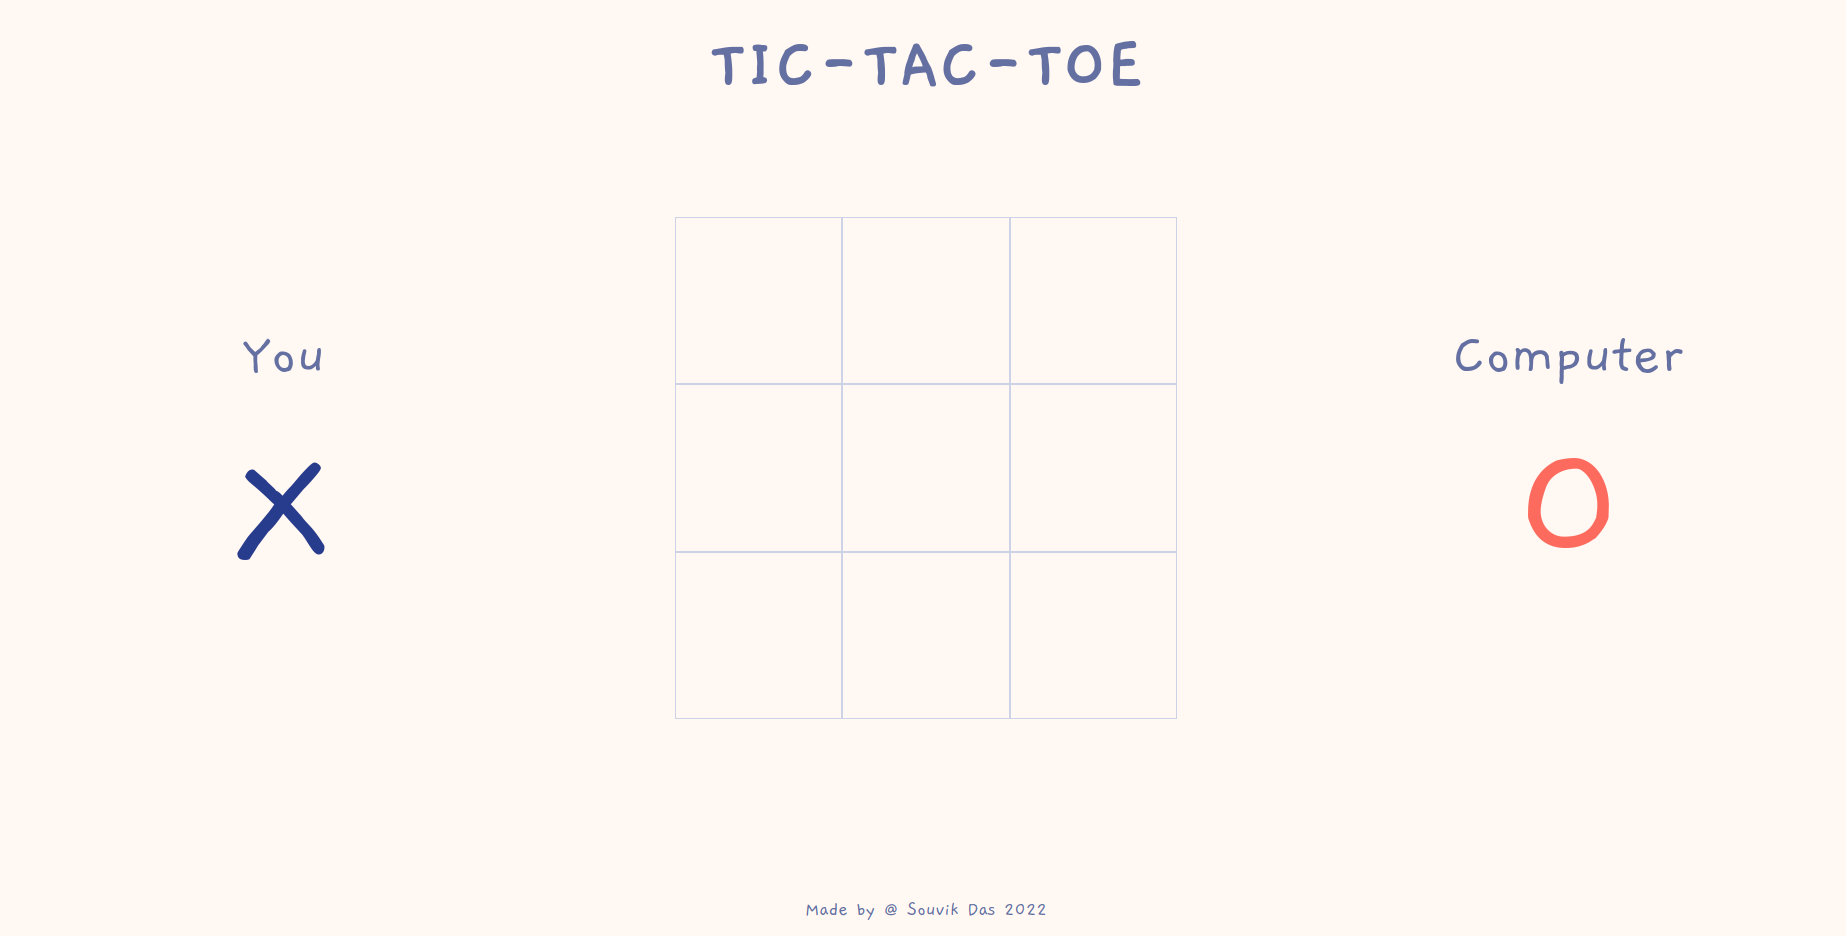
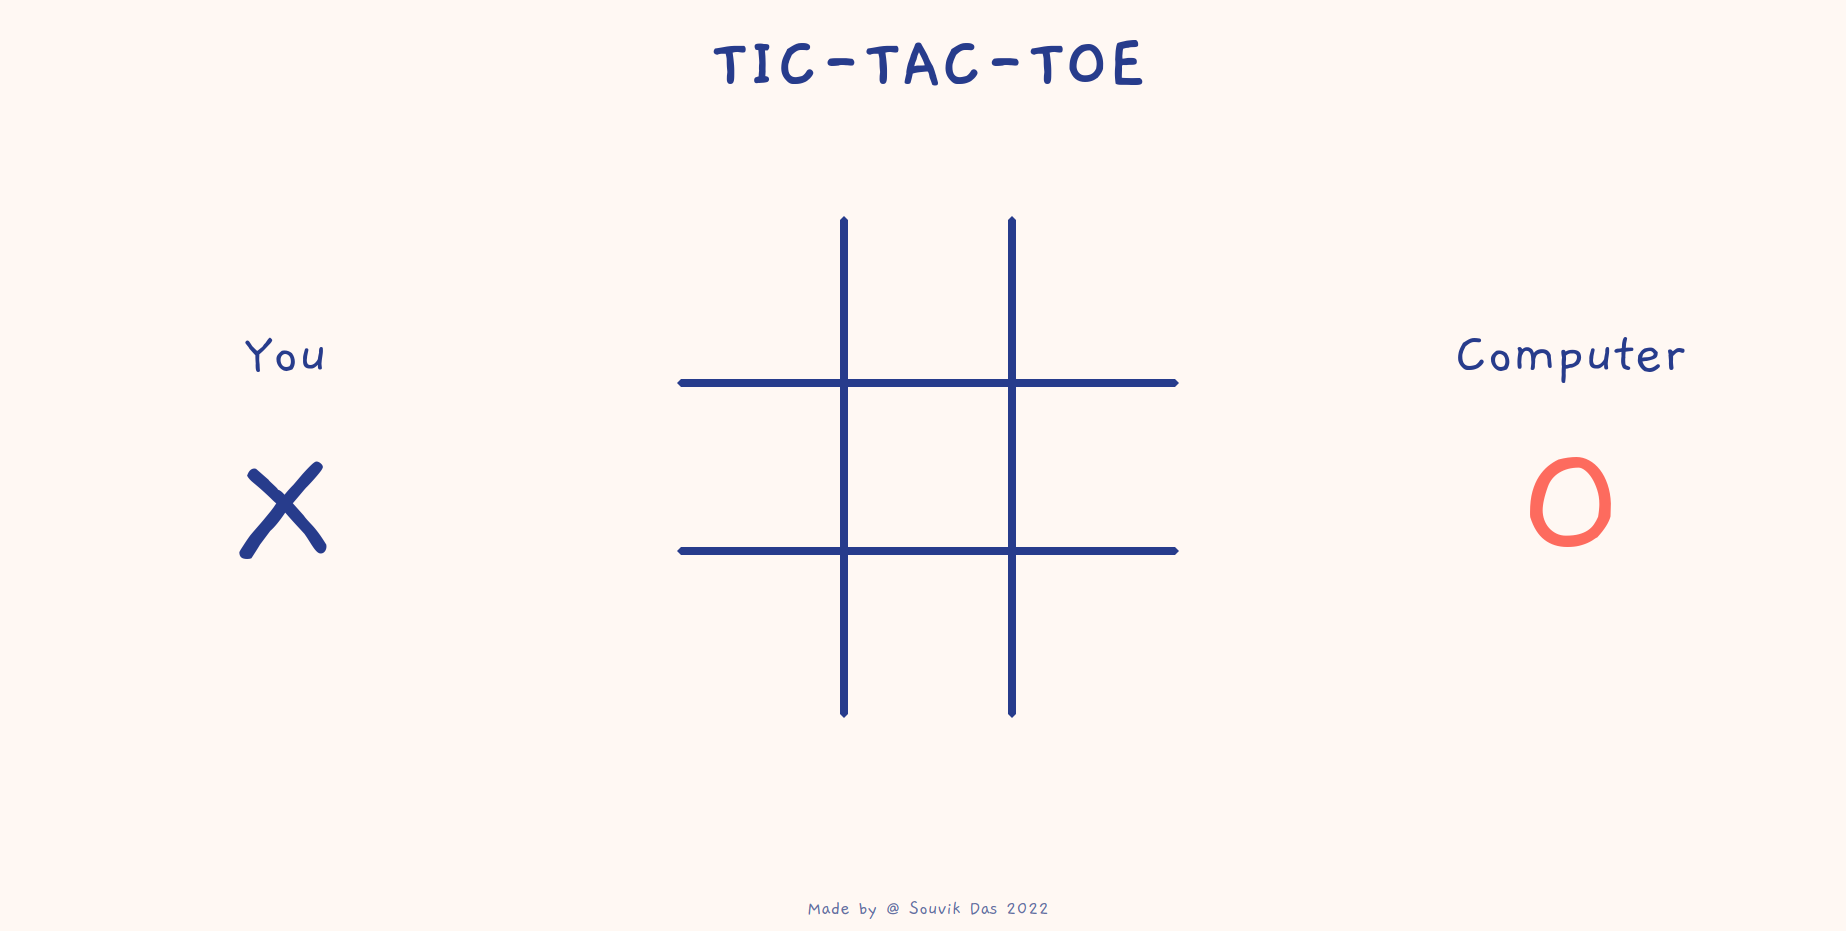
Modified CSS styles

diff --git a/css/styles.css b/css/styles.css
@@ -1,7 +1,7 @@
 :root {
     --red: #f86e5b;
     --blue: #2F3A8F;
-    --gray: #676FA3;
+    --gray: #a8adce;
     --light-gray: #ced2e7;
 }
 * {
@@ -31,7 +31,7 @@ header {
 header > p {
     font-size: 75px;
     font-weight: 700;
-    color: var(--gray);
+    color: var(--blue);
 }
 
 /* main */
@@ -49,7 +49,7 @@ header > p {
 }
 .name {
     font-size: 60px;
-    color: var(--gray);
+    color: var(--blue);
 }
 .sign {
     font-size: 180px;
@@ -120,7 +120,7 @@ footer > p {
     text-align: center;
     font-size: 20px;
     padding-bottom: 2vh;
-    color: var(--gray);
+    color: var(--blue);
 }
 
 /* grid style */

diff --git a/src/script.js b/src/script.js
@@ -199,7 +199,7 @@ const displayController = (() => {
             } else {
                 result.innerHTML = "You Lose!";
             }
-        }, 200);
+        }, 300);
         
     }
 
